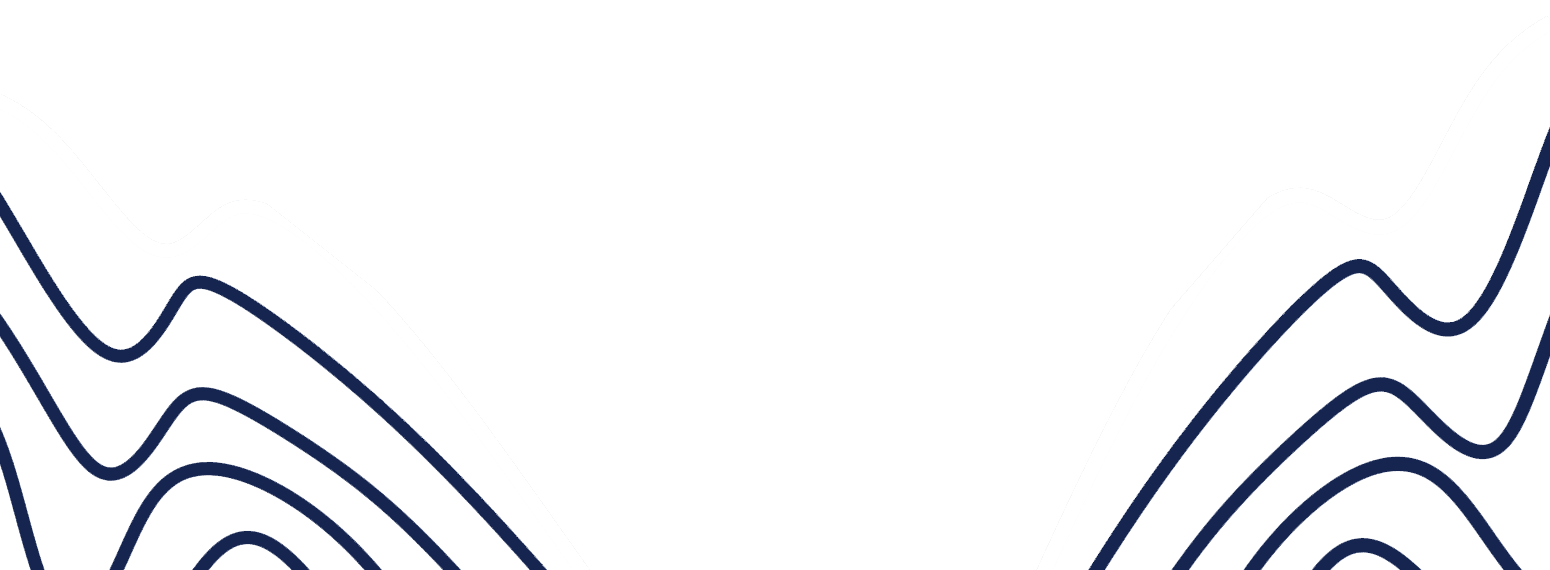
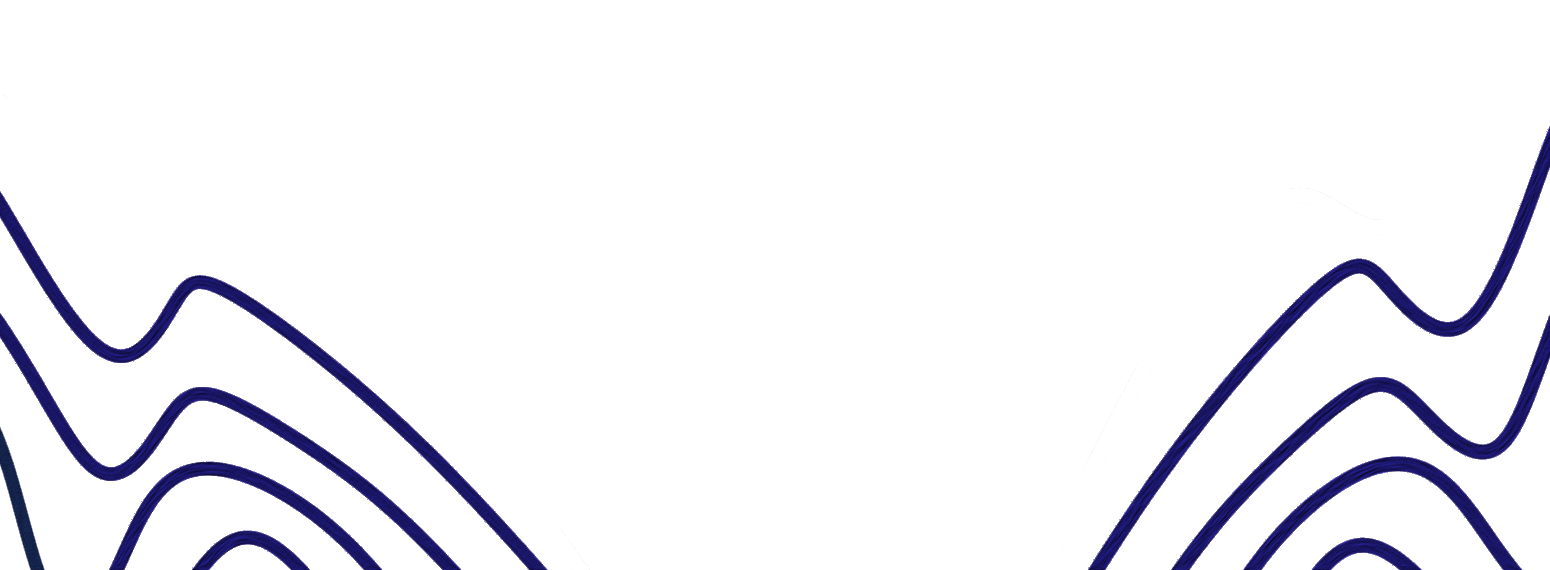
Last update 12/8

diff --git a/index.html b/index.html
@@ -306,7 +306,24 @@
             preserveAspectRatio="none"
             aria-hidden="true"
           >
-            <path d="M0 0L900 0L900 601L0 601Z" fill="#f8f4ee" />
+            <defs>
+              <pattern
+                id="hero-wave-front-texture"
+                patternUnits="userSpaceOnUse"
+                width="900"
+                height="600"
+              >
+                <image
+                  href="imagenes/FOTOS FINALES/posterstock.png"
+                  x="0"
+                  y="0"
+                  width="900"
+                  height="600"
+                  preserveAspectRatio="xMidYMid slice"
+                />
+              </pattern>
+            </defs>
+            <path d="M0 0L900 0L900 601L0 601Z" fill="url(#hero-wave-front-texture)" />
           </svg>
         </div>
 
